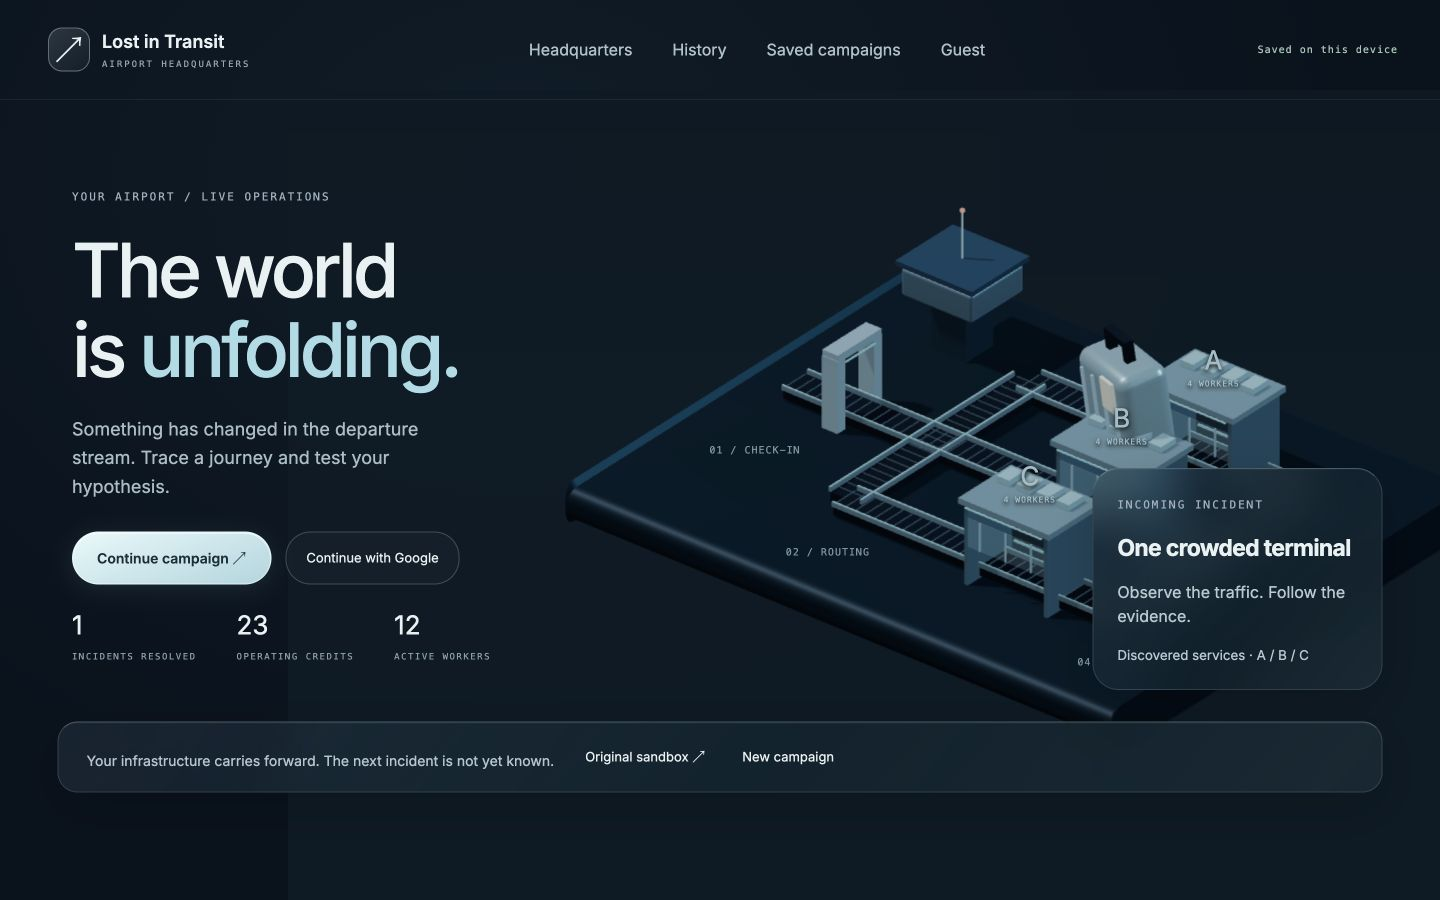
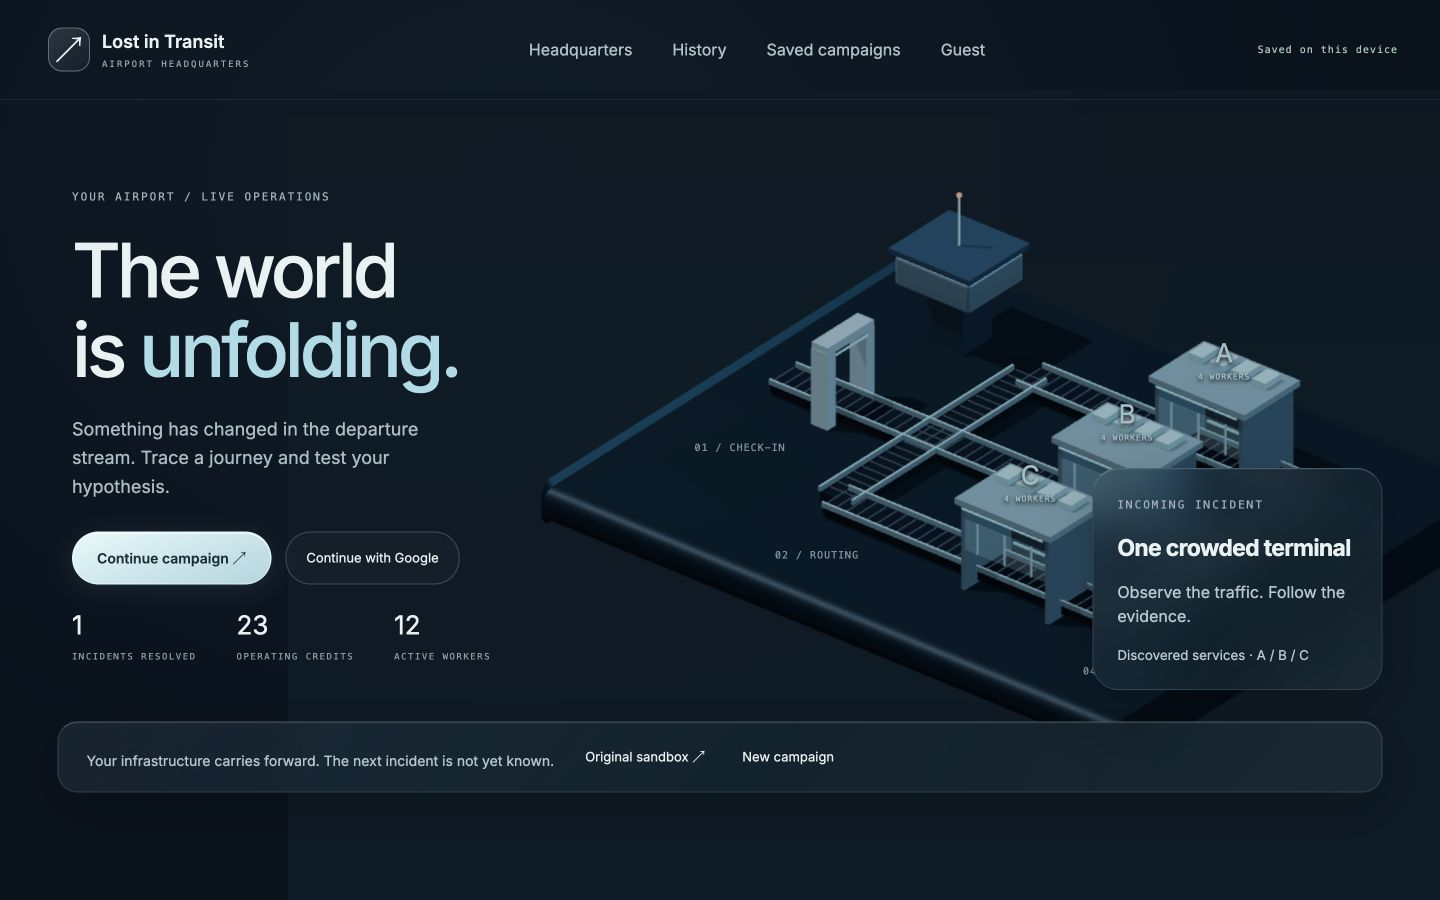
Keep discovered engineering capabilities available across incidents

Changed region(s): [[0.375, 0.2178, 0.9062, 0.8089]]

diff --git a/frontend/src/Headquarters.tsx b/frontend/src/Headquarters.tsx
@@ -10,6 +10,7 @@ import {
   finishRun,
   operatingCost,
   endingNames,
+  unlockedCapabilities,
   type Run,
 } from "./director";
 import {
@@ -196,15 +197,7 @@ export default function Headquarters() {
             onMap={() => setView("hq")}
             price={operatingCost}
             finalEvaluation={run.current.final}
-            capabilities={
-              run.outcomes.length >= 6 || run.current.final
-                ? ["validate_payload", "isolate"]
-                : run.current.family === "correctness"
-                  ? ["validate_payload"]
-                  : run.current.family === "dependency"
-                    ? ["isolate"]
-                    : []
-            }
+            capabilities={unlockedCapabilities(run)}
             evaluate={(state, e) => verified(run.current, state, e)}
             onComplete={(state, e, n, severe) => {
               const next = finishRun(run, state, e, n, !!severe);

diff --git a/frontend/src/director.ts b/frontend/src/director.ts
@@ -300,3 +300,7 @@ export function feasible(r: Run): Config {
     isolate: true,
   };
 }
+
+export function unlockedCapabilities(r:Run):string[]{
+ return (['validate_payload','isolate'] as const).filter(k=>r.current.final||r.architecture[k]||r.current.family===(k==='validate_payload'?'correctness':'dependency')||r.outcomes.some(o=>o.family===(k==='validate_payload'?'correctness':'dependency')));
+}

diff --git a/docs/PROCEDURAL_IMPLEMENTATION.md b/docs/PROCEDURAL_IMPLEMENTATION.md
@@ -16,6 +16,6 @@ All original simulation tests remain. New tests cover seeded variation, full-run
 
 ## Verification record — 2026-11-24
 
-Local verification: 14 Python tests and 78 frontend tests pass. Three full seeded runs exercise all eight families; eight additional strategies reach every ending through actual three-stage simulation results. Twelve new frame-hash fixtures cover variable counts, traffic skew, integrity and dependency isolation in both languages. Browser verification reproduced a generated 80-request latency incident (61 arrivals, p95 11200 ms), repaired it with capacity/worker/routing changes, saved it and resumed the same next incident after refresh. A second new campaign retained the earlier migrated campaign in the archive. Desktop and mobile Headquarters and the explicit unconfigured-Google fallback were inspected. Production Firebase sessions remain unverified because no project exists. CI rules-emulator verification is recorded by the deployment workflow, not assumed from the local build.
+Local verification: 14 Python tests and 79 frontend tests pass. Three full seeded runs exercise all eight families; eight additional strategies reach every ending through actual three-stage simulation results. Twelve new frame-hash fixtures cover variable counts, traffic skew, integrity and dependency isolation in both languages. Browser verification reproduced a generated 80-request latency incident (61 arrivals, p95 11200 ms), repaired it with capacity/worker/routing changes, saved it and resumed the same next incident after refresh. A second new campaign retained the earlier migrated campaign in the archive. Desktop and mobile Headquarters and the explicit unconfigured-Google fallback were inspected. Production Firebase sessions remain unverified because no project exists. CI rules-emulator verification is recorded by the deployment workflow, not assumed from the local build.
 
 The Firebase rules emulator job passed in GitHub Actions (run 45323837976). Four additional synchronization tests verify guest creation, stale-revision conflict, and offline/quota/permission errors without mutating local saves. The production login/cross-device checklist remains pending actual Firebase configuration.

diff --git a/README.md b/README.md
@@ -80,4 +80,4 @@ See `docs/PRODUCT_VISION.md`, `docs/DESIGN_REFERENCES.md` and `docs/DESIGN_REVIE
 
 ## Current limits
 
-Eight playable campaign nodes and the preserved original sandbox; no multiplayer, sound or draggable connection editing. Later cache, integrity and regional simulation mechanics are not yet implemented. Circuit breakers open without half-open recovery probes; retries use per-attempt timeouts, not a global deadline. Replay retains snapshots in memory for the current 100-request batch. 60 FPS is a target, not a measured guarantee across devices. Local Python tests currently report an upstream Starlette/httpx deprecation warning.
+Eight procedural incident families, a three-stage evaluation and the preserved original sandbox; no multiplayer, sound or draggable connection editing. Caching, message brokers and regional replication are not simulated. Google login and production cloud saves require the Firebase setup and authenticated verification checklist. Circuit breakers open without half-open recovery probes; retries use per-attempt timeouts, not a global deadline. Replay retains snapshots in memory for the current bounded workload. 60 FPS is a target, not a measured guarantee across devices. Local Python tests currently report an upstream Starlette/httpx deprecation warning.
